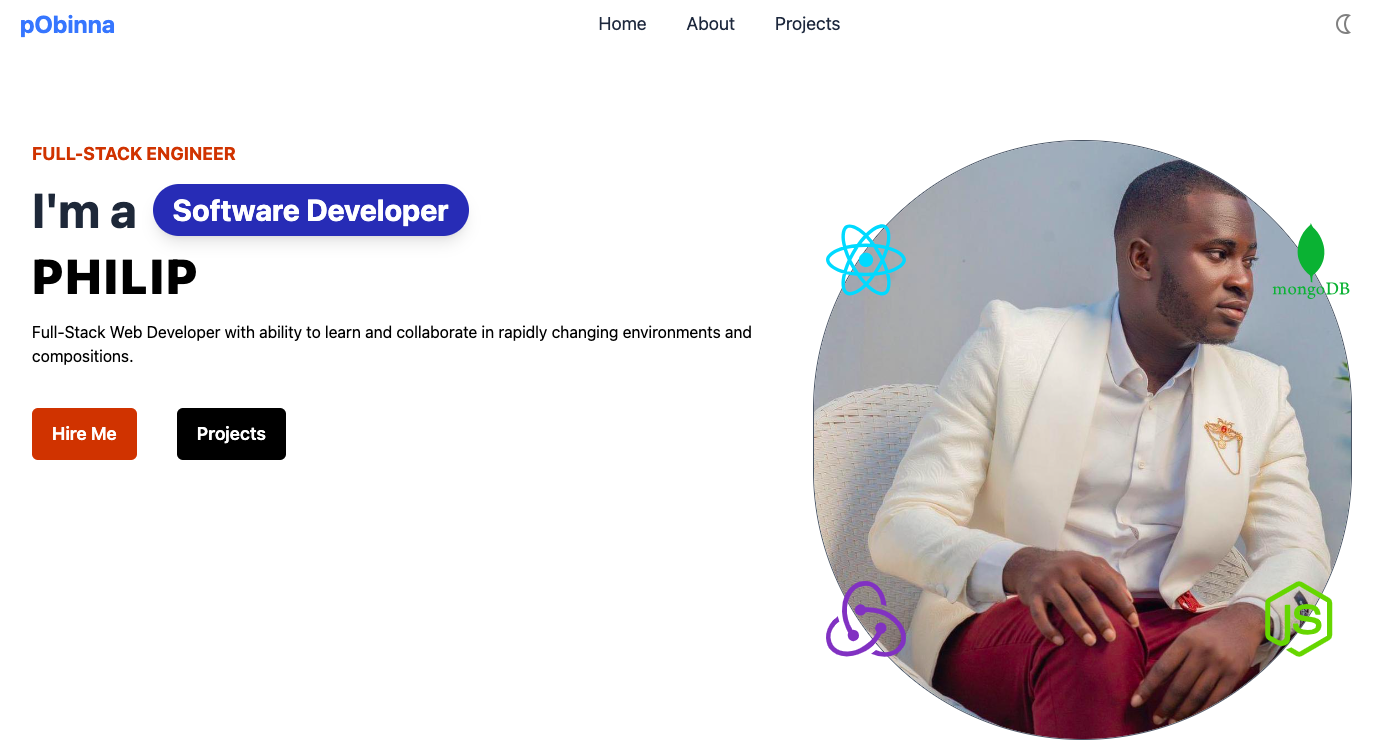
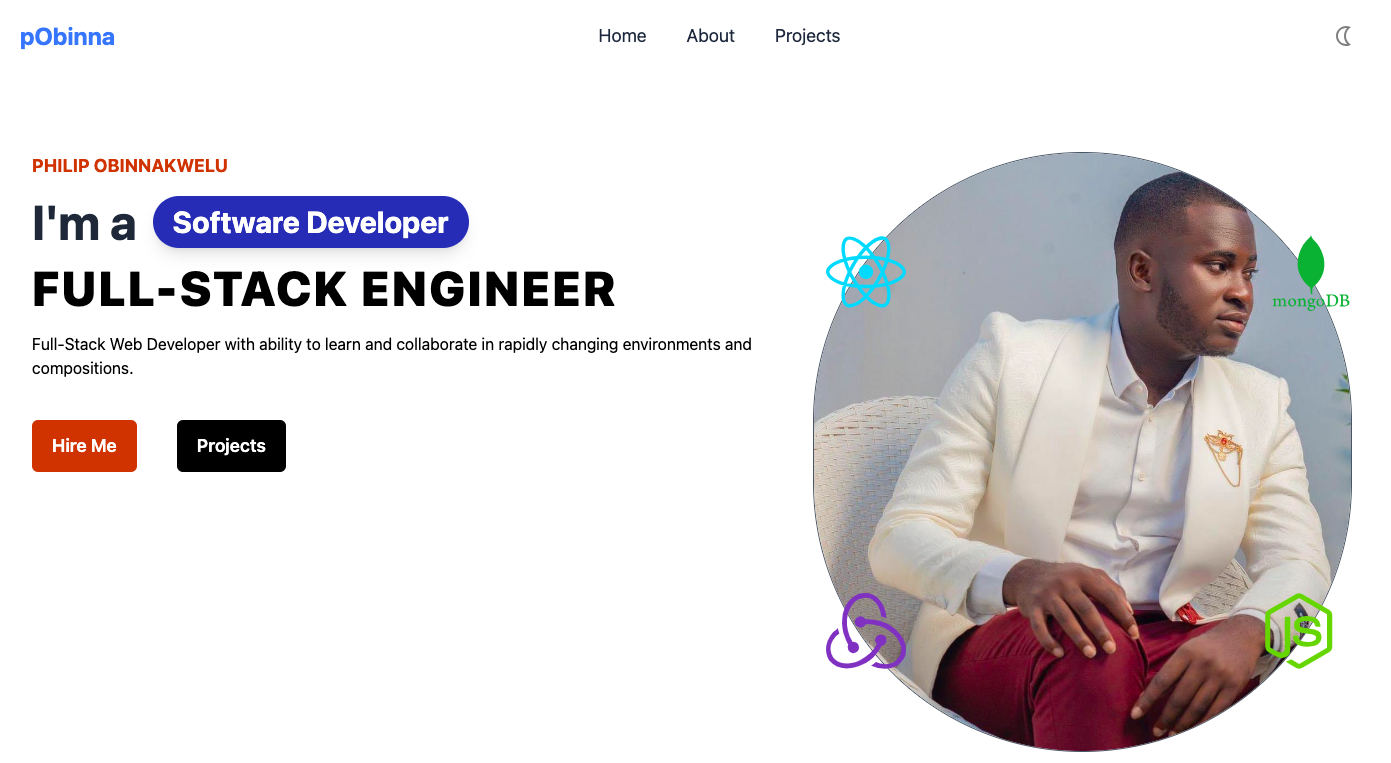
Added Changes

diff --git a/src/component/Header.jsx b/src/component/Header.jsx
@@ -7,7 +7,7 @@ const Header = () => {
     <div className="w-full flex flex-col lg:flex-row px-8 md:px-10 gap-10 2xl:gap-20 py-20">
       <div className="flex flex-col mb-20 lg:mb-0">
         <span className="text-lg font-bold text-orange-700 ">
-          FULL-STACK ENGINEER
+          PHILIP OBINNAKWELU
         </span>
         <div className="flex gap-4 items-center my-4">
           <h1 className="text-gray-800 dark:text-neutral-100 text-5xl 2xl:text-7xl font-bold text-center">
@@ -20,7 +20,7 @@ const Header = () => {
           </div>
         </div>
         <h1 className="text-5xl 2xl:text-7xl font-extrabold text-black dark:text-neutral-100 tracking-wider ">
-          PHILIP
+          FULL-STACK ENGINEER
         </h1>
         <p className="text-md text-black dark:text-gray-100 mt-5 2xl:mt-10">
           Full-Stack Web Developer with ability to learn and collaborate in
@@ -37,21 +37,31 @@ const Header = () => {
           </a>
         </div>
       </div>
-    <div className="w-[320px] h-[320px] md:w-[600px] md:h-[600px] 2xl:w-[700px] 2xl:h-[700px] rounded-full border border-gray-600 dark:border-gray-200 relative md:nt-20 lg:mt-0 flex items-center justify-center">
-
-      <img src={Profile} className="w-full h-full absolute rounded-full object-cover " />
-      <div className="relative w-full h-full rounded-full">
-        <img src={Reactjs} className="absolute top-7 md:top-20 left-3 2xl:left-8 w-12 h-12 md:w-20 md:h-20"/>
-        <img src={Redux} className="absolute bottom-7 md:bottom-20 left-3 2xl:left-12 w-12 h-12 md:w-20 md:h-20"/>
-        <img src={Mongodb} className="absolute top-3 md:top-20 right-0 2xl:left-8 w-16 h-16 md:w-20 md:h-20"/>
-        <img src={Nodejs} className="absolute bottom-7 md:bottom-20 right-3 2xl:right-12 w-12 h-12 md:w-20 md:h-20"/>
+      <div className="w-[320px] h-[320px] md:w-[600px] md:h-[600px] 2xl:w-[700px] 2xl:h-[700px] rounded-full border border-gray-600 dark:border-gray-200 relative md:nt-20 lg:mt-0 flex items-center justify-center">
+        <img
+          src={Profile}
+          className="w-full h-full absolute rounded-full object-cover "
+        />
+        <div className="relative w-full h-full rounded-full">
+          <img
+            src={Reactjs}
+            className="absolute top-7 md:top-20 left-3 2xl:left-8 w-12 h-12 md:w-20 md:h-20"
+          />
+          <img
+            src={Redux}
+            className="absolute bottom-7 md:bottom-20 left-3 2xl:left-12 w-12 h-12 md:w-20 md:h-20"
+          />
+          <img
+            src={Mongodb}
+            className="absolute top-3 md:top-20 right-0 2xl:left-8 w-16 h-16 md:w-20 md:h-20"
+          />
+          <img
+            src={Nodejs}
+            className="absolute bottom-7 md:bottom-20 right-3 2xl:right-12 w-12 h-12 md:w-20 md:h-20"
+          />
+        </div>
       </div>
-      
-
     </div>
-    
-    </div>
-
   );
 };
 
